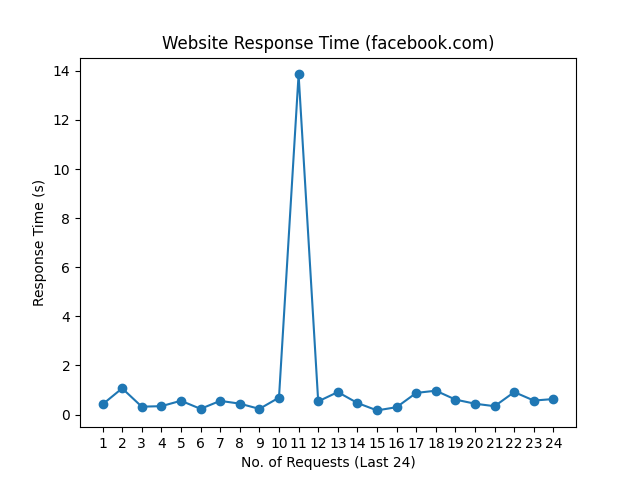
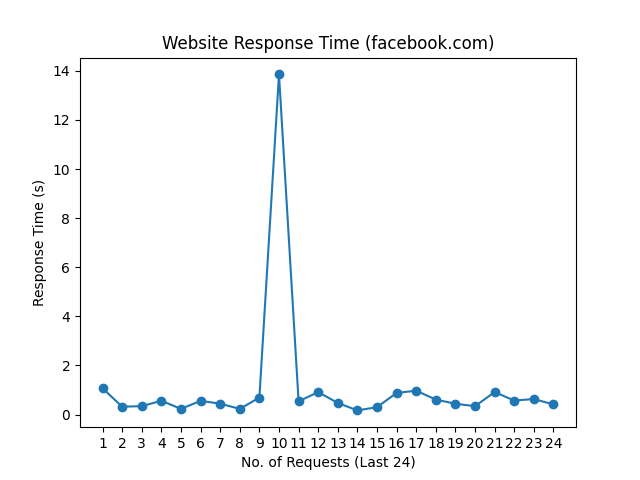
update README.md, history and graph

Changed region(s): [[0.1562, 0.125, 0.875, 0.875]]

diff --git a/README.md b/README.md
@@ -1,10 +1,10 @@
 # Web Monitoring
 
-Last Checked: 07/05/2025 08:23
+Last Checked: 08/05/2025 08:23
 
 | Website | Response Time (s) | Status | Avg Uptime (%) |
 |---------|-------------------|--------|----------------|
 | www.thiswebsiteisdown.net | 0 <br> <img src="graph/thiswebsiteisdown.net.png" alt="Graph" width="200" height="200">  | ❌ Down | 0.00 |
-| www.netflix.com | 0.916951 <br> <img src="graph/netflix.com.png" alt="Graph" width="200" height="200">  | ✅ Up | 99.69 |
-| www.google.com | 0.237348 <br> <img src="graph/google.com.png" alt="Graph" width="200" height="200">  | ✅ Up | 100.00 |
-| www.facebook.com | 0.632539 <br> <img src="graph/facebook.com.png" alt="Graph" width="200" height="200">  | ✅ Up | 100.00 |
+| www.netflix.com | 0.669093 <br> <img src="graph/netflix.com.png" alt="Graph" width="200" height="200">  | ✅ Up | 99.69 |
+| www.google.com | 0.193257 <br> <img src="graph/google.com.png" alt="Graph" width="200" height="200">  | ✅ Up | 100.00 |
+| www.facebook.com | 0.411979 <br> <img src="graph/facebook.com.png" alt="Graph" width="200" height="200">  | ✅ Up | 100.00 |
